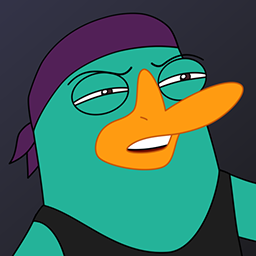
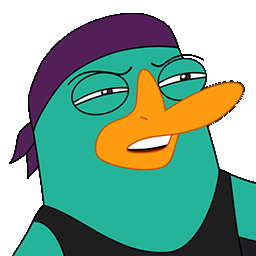
We're finally ready for big time I think. Changing the background, tweaking trivia, catching spelling mistakes

diff --git a/NativeGL/Screens/BetrayalScreen.cs b/NativeGL/Screens/BetrayalScreen.cs
@@ -21,7 +21,6 @@ namespace NativeGL.Screens
         private QFontDrawing _drawing;
         private QFontRenderOptions _renderOptions;
 
-        private bool _configured = false;
         private bool _finished = false;
 
         protected override void InitializeInternal()
@@ -30,7 +29,6 @@ namespace NativeGL.Screens
             _questionFont = Resources.Fonts["default_60pt"];
 
             _drawing = new QFontDrawing();
-            _configured = true;
 
             _renderOptions = new QFontRenderOptions()
             {
@@ -56,33 +54,11 @@ namespace NativeGL.Screens
             GL.ClearColor(0.0f, 0.0f, 0.0f, 0.0f);
             GL.Clear(ClearBufferMask.ColorBufferBit | ClearBufferMask.DepthBufferBit);
 
-            if (!_configured)
-            {
-                return;
-            }
-
-            _drawing.ProjectionMatrix = Matrix4.CreateOrthographicOffCenter(0.0f, InternalResolutionX, 0.0f, InternalResolutionY, -1.0f, 1.0f);
-            _drawing.DrawingPrimitives.Clear();
-
-            float sidePadding = 50;
-            SizeF maxWidth = new SizeF(InternalResolutionX - (sidePadding * 2), -1f);
-            _drawing.Print(
-                _headerFont, "Betrayal", new Vector3(InternalResolutionX / 2, InternalResolutionY - sidePadding, 0), maxWidth, QFontAlignment.Centre, _renderOptions);
-            _drawing.Print(
-                _questionFont,
-                "Each team must secretly\r\nchoose Trust or Betray\r\n\r\nIf both TRUST, nothing happens\r\nIf only one BETRAYS,\r\nthey win 250 points\r\nIf both BETRAY, all scores go to zero",
-                new Vector3(InternalResolutionX / 2, InternalResolutionY - 250, 0), maxWidth, QFontAlignment.Centre, _renderOptions);
-            _drawing.RefreshBuffers();
-
             _drawing.Draw();
         }
 
         public override void Logic(double msElapsed)
         {
-            if (!_configured)
-            {
-                return;
-            }
         }
 
         public override bool Finished

diff --git a/NativeGL/Screens/QuizzlerQuestionScreen.cs b/NativeGL/Screens/QuizzlerQuestionScreen.cs
@@ -25,6 +25,8 @@ namespace NativeGL.Screens
             public float Height;
         }
 
+        private static readonly TimeSpan QUESTION_TIME = TimeSpan.FromSeconds(21);
+        private DateTimeOffset _screenStartTime;
         private bool _showingAnswers = false;
         private bool _finished = false;
         private QFont _headerFont;
@@ -111,6 +113,8 @@ namespace NativeGL.Screens
                 _buttons.Add(button);
                 rawButton.Clicked += ButtonClicked;
             }
+
+            _screenStartTime = DateTimeOffset.UtcNow;
         }
 
         public override void KeyDown(KeyboardKeyEventArgs args)
@@ -184,6 +188,11 @@ namespace NativeGL.Screens
             _drawing.Print(_headerFont, "QUIZZLER", new Vector3(InternalResolutionX / 2, InternalResolutionY - sidePadding, 0), maxWidth, QFontAlignment.Centre, _renderOptions);
             _drawing.Print(_questionFont, _question.QuestionText,
                 new Vector3((InternalResolutionX + sidePadding) / 2, 800, 0), maxWidth, QFontAlignment.Left, _renderOptions);
+
+            TimeSpan currentTime = QUESTION_TIME - (DateTimeOffset.UtcNow - _screenStartTime);
+            int secondsRemaining = Math.Max(0, (int)Math.Ceiling(currentTime.TotalSeconds));
+            _drawing.Print(_questionFont, "TIME: " + secondsRemaining,
+                new Vector3(InternalResolutionX / 2, 100, 0), maxWidth, QFontAlignment.Centre, _renderOptions);
 
             _drawing.RefreshBuffers();
             _drawing.Draw();

diff --git a/NativeGL/Screens/ScribblerScreen.cs b/NativeGL/Screens/ScribblerScreen.cs
@@ -62,7 +62,7 @@ namespace NativeGL.Screens
             float sidePadding = 50;
             SizeF maxWidth = new SizeF(InternalResolutionX - (sidePadding * 2), -1f);
             _drawing.Print(_headerFont, "DRAWBAGE", new Vector3(InternalResolutionX / 2, InternalResolutionY - sidePadding, 0), maxWidth, QFontAlignment.Centre, _renderOptions);
-            _drawing.Print(_questionFont, "One person will draw the given prompt on the board.\r\n\r\n150 points are awarded if their team can guess correctly what you are drawing within the time limit.\r\n\r\nM.C. will provide the prompt.\r\n\r\nOther team will be allowed 1 guess to steal points if you fail.", new Vector3(sidePadding, InternalResolutionY - 250, 0), maxWidth, QFontAlignment.Justify, _renderOptions);
+            _drawing.Print(_questionFont, "One person from your team will draw the given prompt on the board.\r\n\r\n200 points are awarded if the rest of the team can guess correctly what they are drawing within the time limit.\r\n\r\nGM will provide the prompt.\r\n\r\nOther team will be allowed 1 guess to steal points if you fail.", new Vector3(sidePadding, InternalResolutionY - 250, 0), maxWidth, QFontAlignment.Justify, _renderOptions);
             _drawing.RefreshBuffers();
 
             _drawing.Draw();

diff --git a/NativeGL/Screens/MainGameScreen.cs b/NativeGL/Screens/MainGameScreen.cs
@@ -159,7 +159,7 @@ namespace NativeGL.Screens
                         outcomeOk = true;
 
                         // Disallow the same category multiple times in a row
-                            if (_categoryHistory.Contains(predictedOutcome))
+                        if (_categoryHistory.Contains(predictedOutcome))
                         {
                             outcomeOk = false;
                         }
@@ -172,8 +172,10 @@ namespace NativeGL.Screens
                         }
 
                         // Disallow feelin' sad for the player with fewest points
+                        // or if it would put them into negative
                         if (predictedOutcome == RouletteSlotType.FeelinSad &&
-                            currentPlayerPoints == lowestPlayerPoints)
+                            (currentPlayerPoints == lowestPlayerPoints ||
+                            currentPlayerPoints < 100))
                         {
                             outcomeOk = false;
                         }

diff --git a/NativeGL/Screens/FeelinGroovyScreen.cs b/NativeGL/Screens/FeelinGroovyScreen.cs
@@ -67,7 +67,7 @@ namespace NativeGL.Screens
             float sidePadding = 50;
             SizeF maxWidth = new SizeF(InternalResolutionX - (sidePadding * 2), -1f);
             _drawing.Print(_headerFont, "Feelin' Groovy", new Vector3(InternalResolutionX / 2, InternalResolutionY - sidePadding, 0), maxWidth, QFontAlignment.Centre, _renderOptions);
-            _drawing.Print(_questionFont, "Current player gains 150 points", new Vector3(sidePadding, InternalResolutionY - 250, 0), maxWidth, QFontAlignment.Justify, _renderOptions);
+            _drawing.Print(_questionFont, "Current player gains 200 points", new Vector3(sidePadding, InternalResolutionY - 250, 0), maxWidth, QFontAlignment.Justify, _renderOptions);
             _drawing.RefreshBuffers();
 
             _drawing.Draw();

diff --git a/NativeGL/Screens/FeelinSadScreen.cs b/NativeGL/Screens/FeelinSadScreen.cs
@@ -67,7 +67,7 @@ namespace NativeGL.Screens
             float sidePadding = 50;
             SizeF maxWidth = new SizeF(InternalResolutionX - (sidePadding * 2), -1f);
             _drawing.Print(_headerFont, "Feelin' Sad", new Vector3(InternalResolutionX / 2, InternalResolutionY - sidePadding, 0), maxWidth, QFontAlignment.Centre, _renderOptions);
-            _drawing.Print(_questionFont, "Current player loses 150 points", new Vector3(sidePadding, InternalResolutionY - 250, 0), maxWidth, QFontAlignment.Justify, _renderOptions);
+            _drawing.Print(_questionFont, "Current player loses 100 points", new Vector3(sidePadding, InternalResolutionY - 250, 0), maxWidth, QFontAlignment.Justify, _renderOptions);
             _drawing.RefreshBuffers();
 
             _drawing.Draw();
